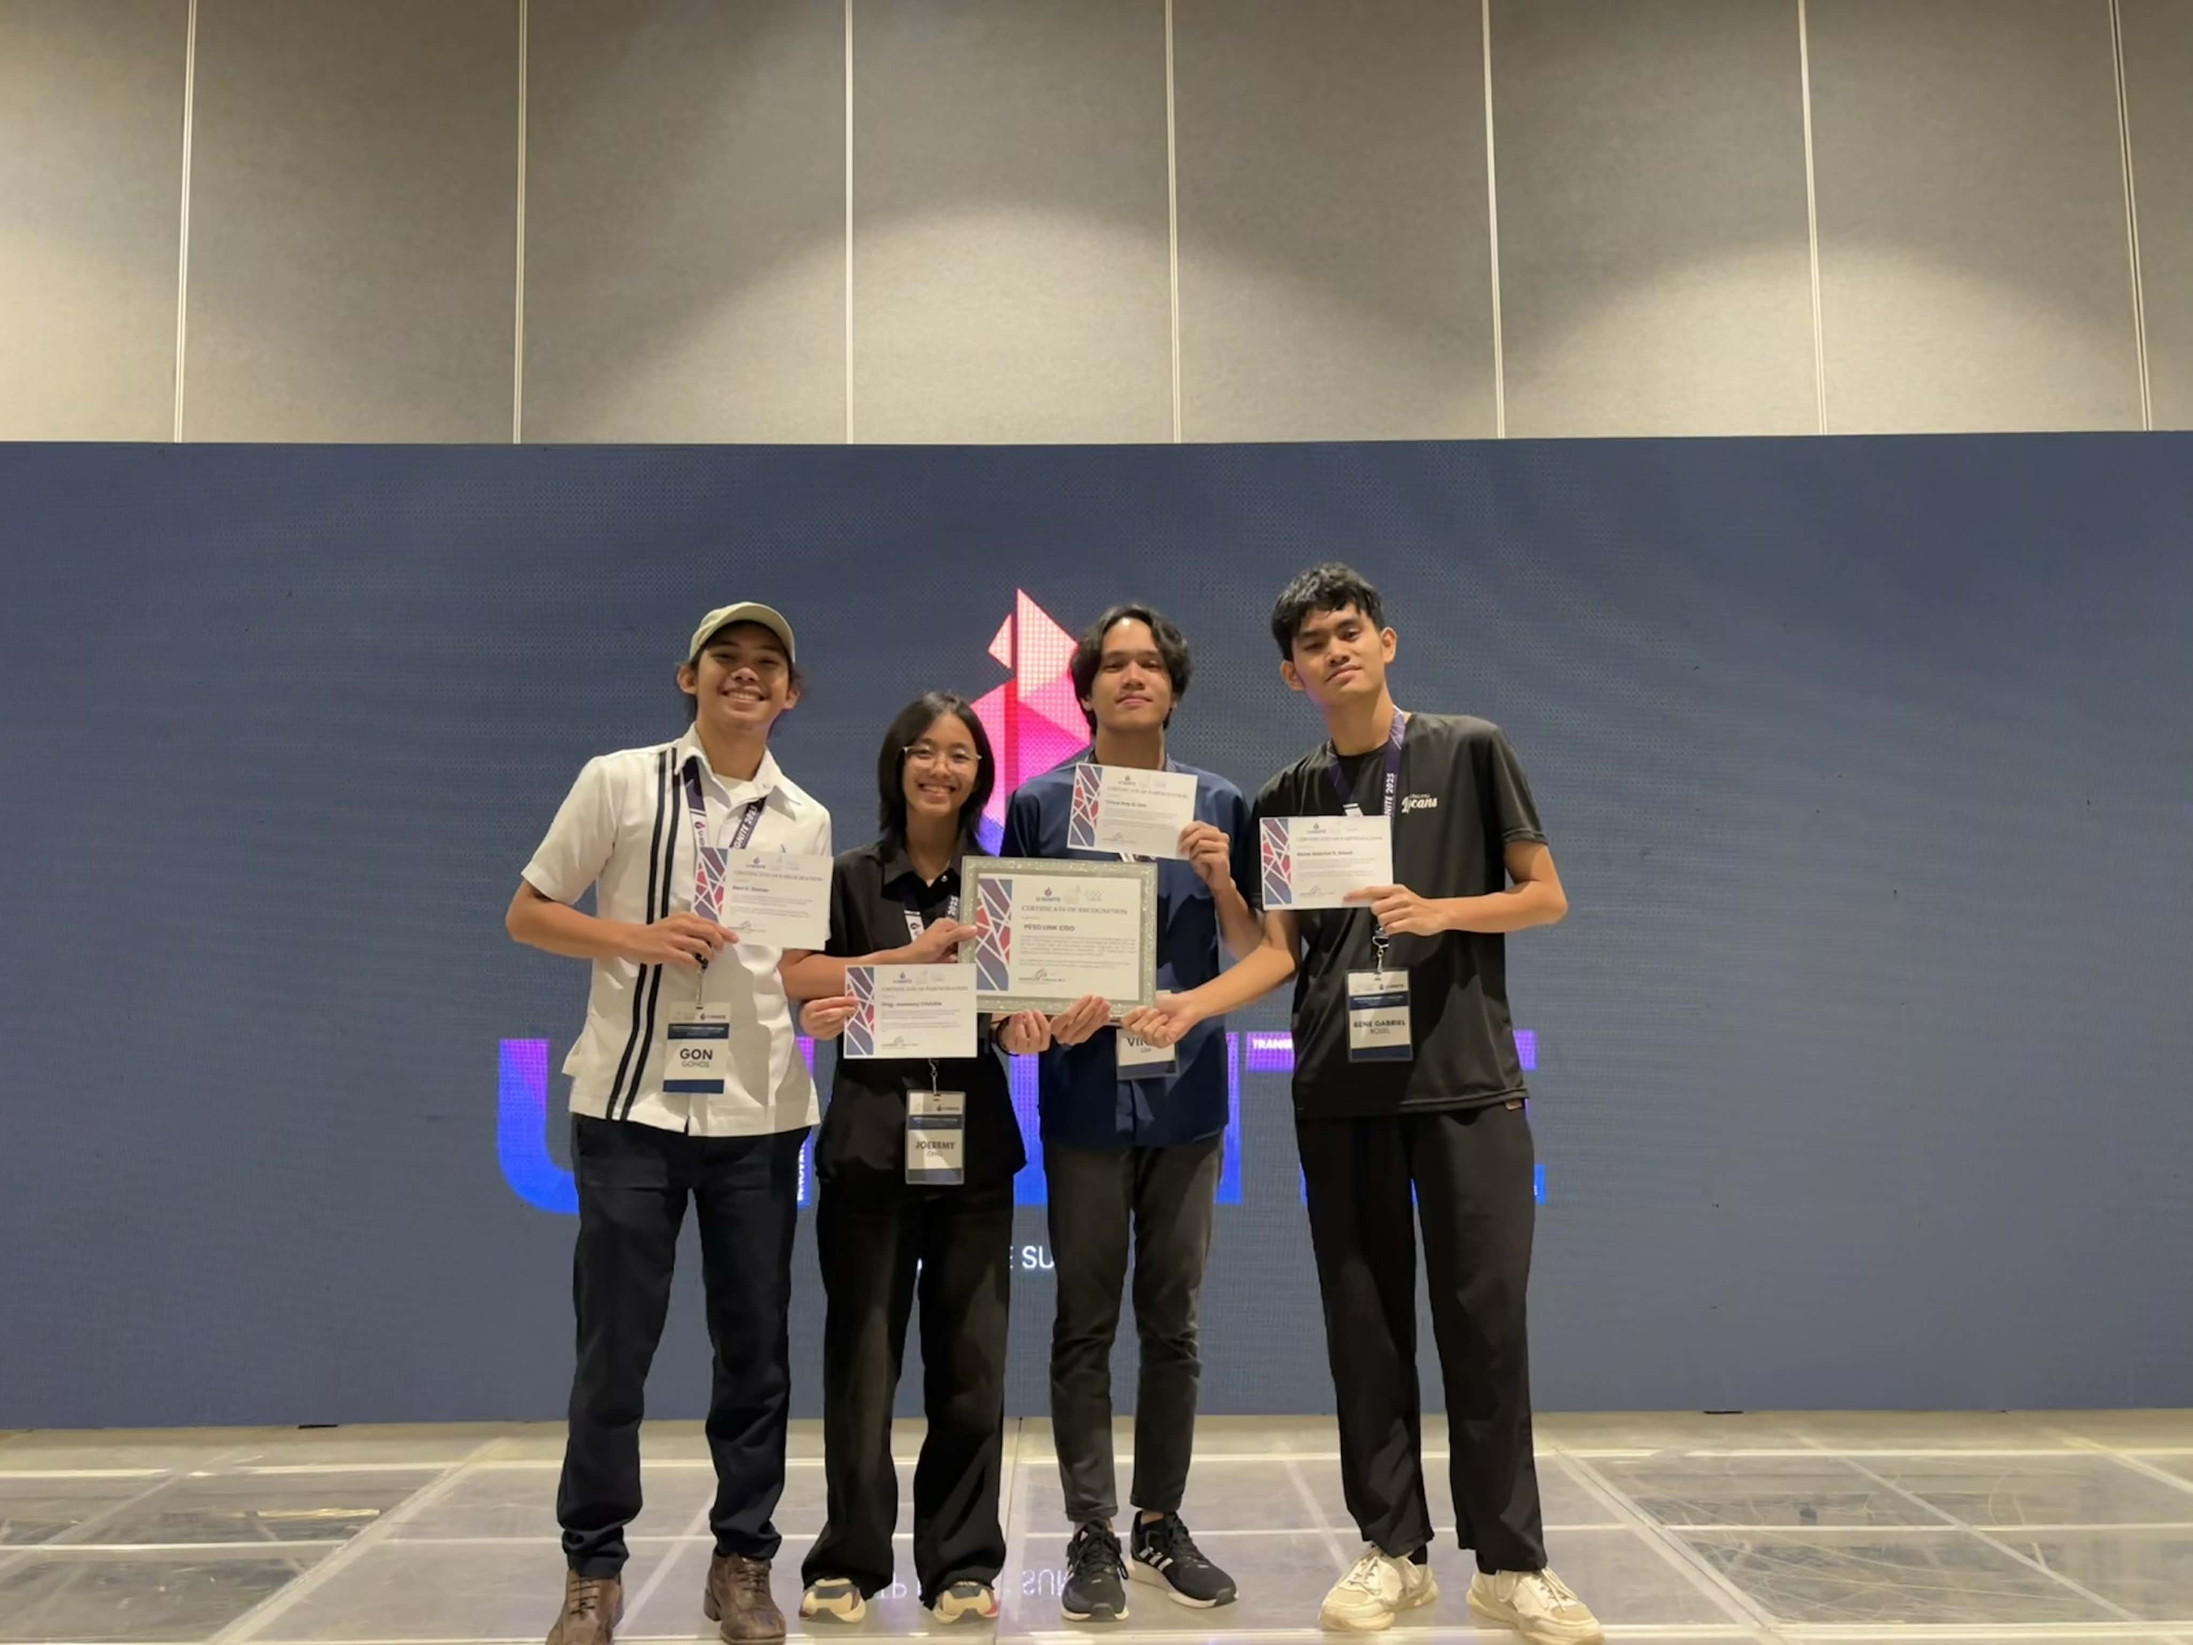
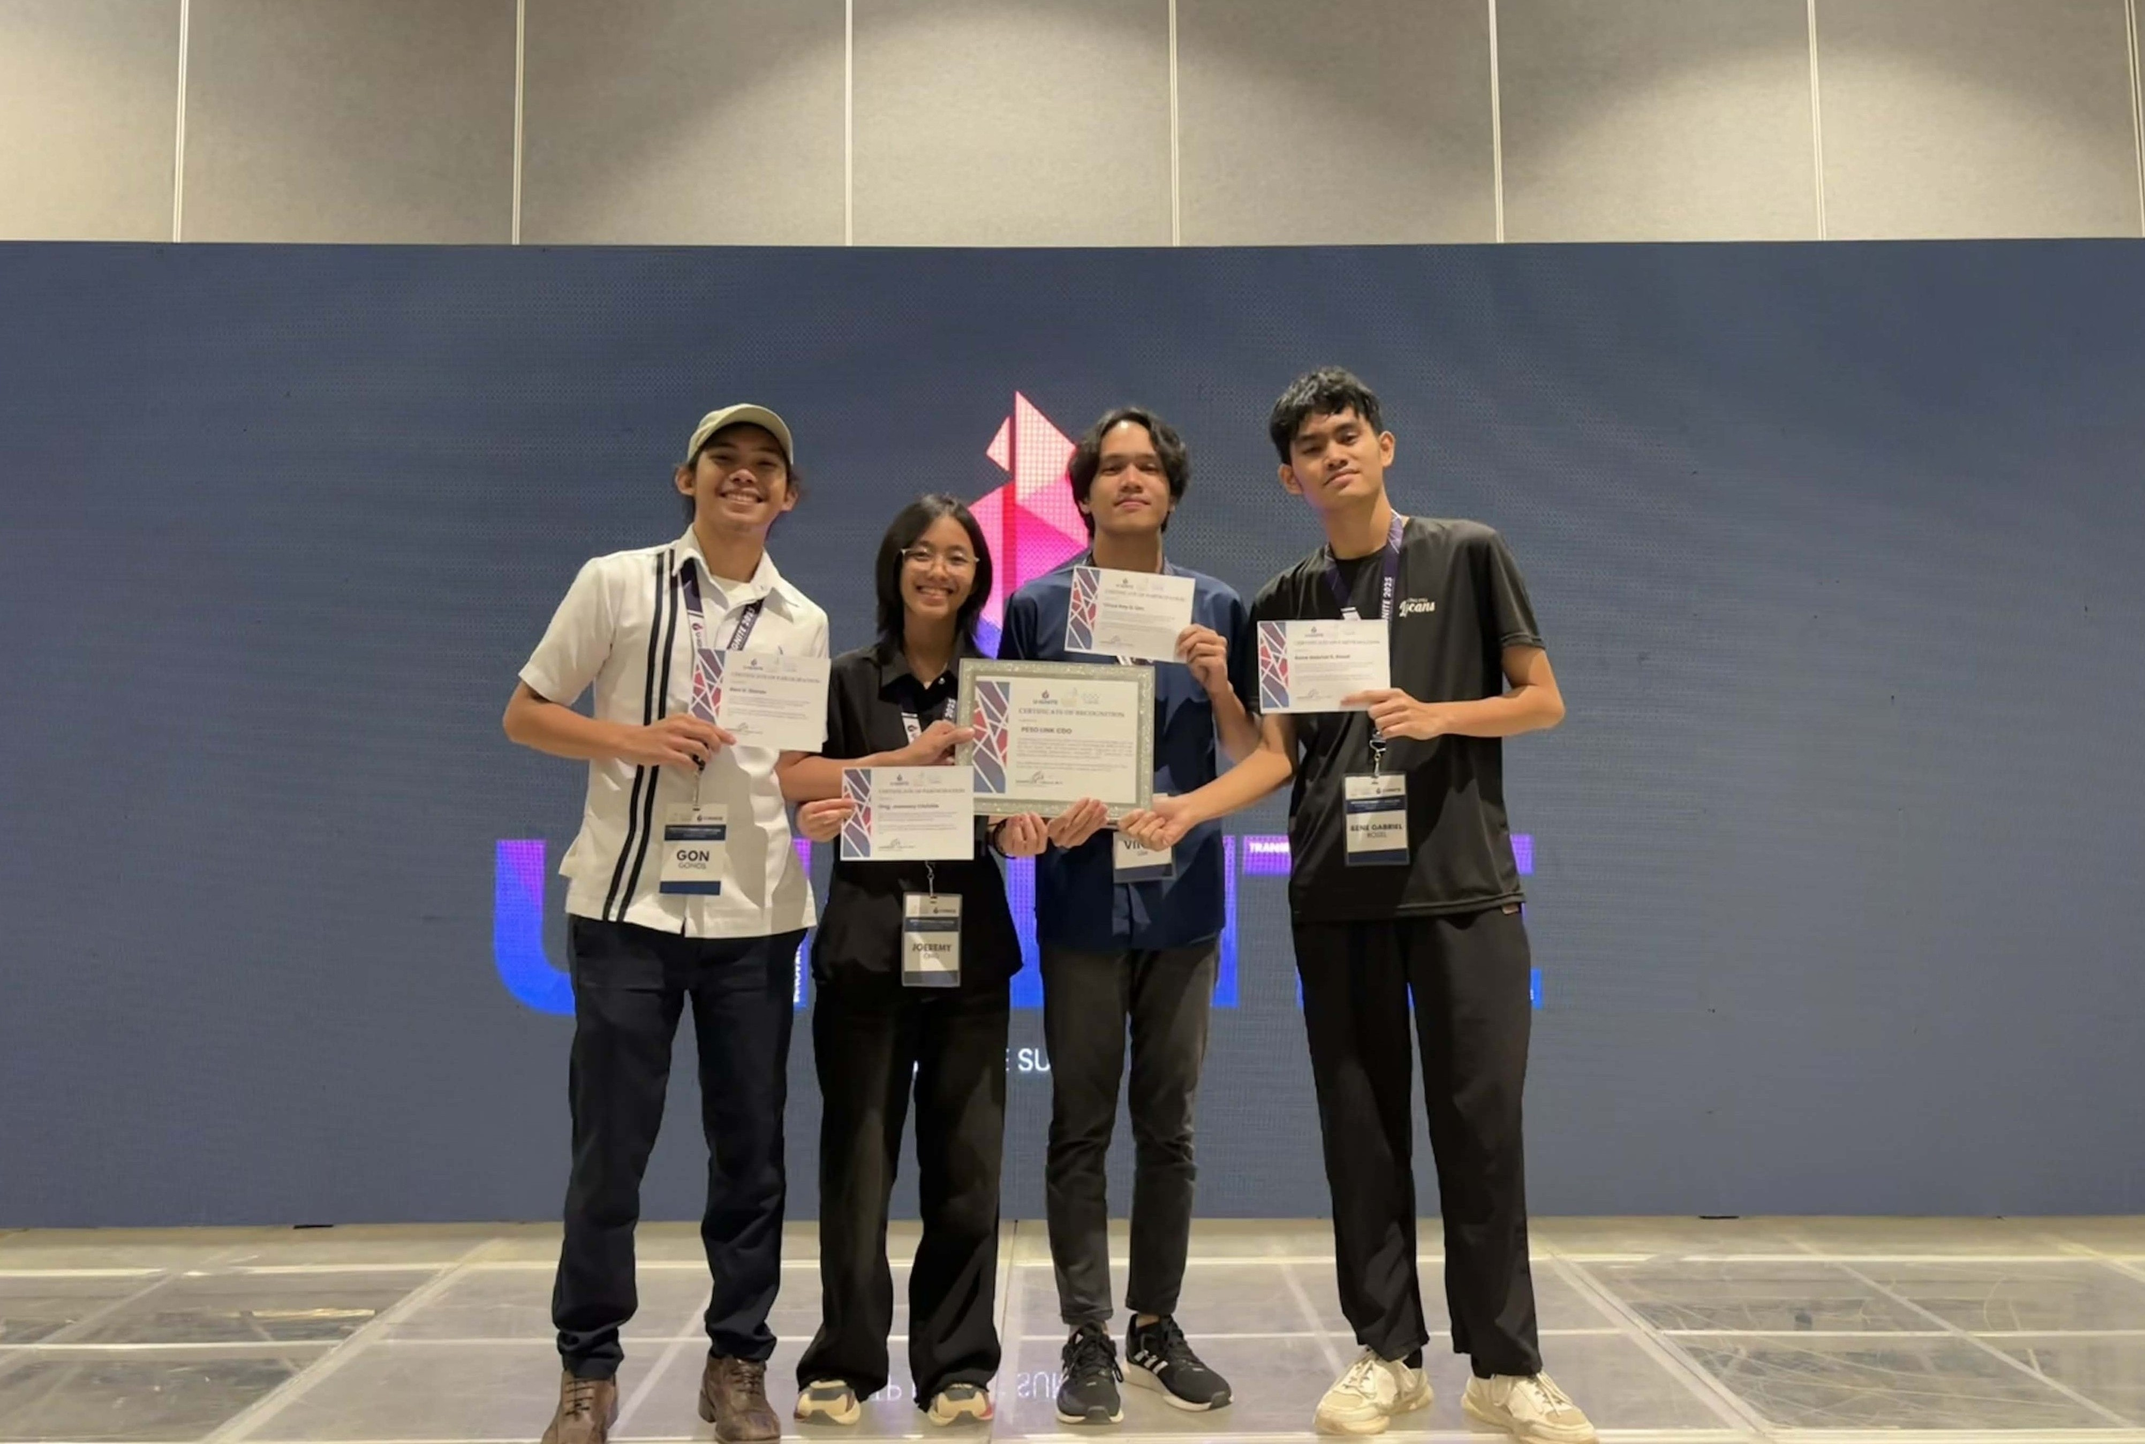
fixes

diff --git a/styles.css b/styles.css
@@ -1154,9 +1154,8 @@ textarea:focus-visible {
 /* --- SUBTLE PREMIUM ABOUT SECTION --- */
 /* 1. The Container: Shift balance to the left (1.6fr) to widen the image area */
 #about .about-container {
-  display: grid;
-  grid-template-columns: 1.6fr 1fr;
-  /* */
+  display: flex;
+  flex-direction: column;
   gap: 40px;
   align-items: start;
 }
@@ -2540,7 +2539,7 @@ body:not(.transitioning) {
 
 .subtle-bento-grid {
   display: grid;
-  grid-template-columns: repeat(2, 1fr);
+  grid-template-columns: 2fr 1fr;
   gap: 20px;
 }
 
@@ -2563,9 +2562,7 @@ body:not(.transitioning) {
     inset 0 0 15px rgba(255, 200, 87, 0.05);
 }
 
-.achievement-highlight {
-  grid-column: span 2;
-}
+
 
 /* Mini Gallery with Desaturated Effect */
 .mini-gallery {
@@ -2576,7 +2573,7 @@ body:not(.transitioning) {
 
 .gallery-frame {
   flex: 1;
-  height: 100px;
+  height: 160px;
   border-radius: 12px;
   overflow: hidden;
   border: 1px solid var(--border-color);
@@ -2628,7 +2625,7 @@ body:not(.transitioning) {
 
 .subtle-bento-grid {
   display: grid !important;
-  grid-template-columns: 1fr 1fr !important;
+  grid-template-columns: 2fr 1fr !important;
   gap: 20px !important;
 }
 
@@ -2640,7 +2637,7 @@ body:not(.transitioning) {
 }
 
 .achievement-highlight {
-  grid-column: span 2 !important;
+  grid-column: span 1 !important;
 }
 
 /* Mobile Fix */
@@ -2715,8 +2712,8 @@ body:not(.transitioning) {
 /* 1. Expand the Left Column to accommodate the wider frame */
 .about-top-wrapper {
   display: grid;
-  /* Shifted more weight to the left to let the wider image breathe */
-  grid-template-columns: 1.5fr 1fr;
+  /* Shifted more weight to the right to let the text breathe */
+  grid-template-columns: 0.9fr 1.3fr;
   gap: 60px;
   margin-bottom: 60px;
   align-items: center;
@@ -2785,11 +2782,48 @@ body:not(.transitioning) {
     grid-template-columns: 1fr;
   }
 
+  .about-visual-grid {
+    width: 100%;
+    display: flex;
+    justify-content: center;
+  }
+
   .about-image.dominant {
     max-width: 100%;
     height: 350px;
-    /* More natural width-to-height for mobile */
+    margin: 0 auto;
+    /* Explicitly center */
+    left: 0;
+    /* Reset any relative positioning offsets */
   }
+}
+
+/* Cybersecurity Badge */
+.cyber-badge {
+  margin-top: 20px;
+  width: 100%;
+  height: 150px;
+  /* Increased height to match visual weight of neighbor */
+  display: flex;
+  align-items: center;
+  justify-content: center;
+  overflow: hidden;
+  border-radius: 12px;
+  border: 1px solid var(--border-color);
+  background: rgba(0, 0, 0, 0.2);
+}
+
+.cyber-badge img {
+  width: 100%;
+  height: 100%;
+  object-fit: cover;
+  /* Fills the container nicely */
+  transition: transform 0.5s ease;
+}
+
+.hobby-card:hover .cyber-badge img {
+  transform: scale(1.05);
+  /* Subtle zoom on hover */
 }
 
 /* --- Premium Animations --- */
@@ -2876,11 +2910,7 @@ body:not(.transitioning) {
 }
 
 /* This allows the column to flow correctly */
-.subtle-bento-grid {
-  display: flex !important;
-  flex-direction: column !important;
-  gap: 20px !important;
-}
+
 
 /* Make the icons glow when the card is hovered */
 .hobby-card:hover .hobby-header i {

diff --git a/index.html b/index.html
@@ -135,9 +135,8 @@
                 </div>
 
                 <div class="skill-group">
-                  <!-- <span class="skill-tag"><i class="fas fa-mobile-alt"></i> Flutter Dev</span> -->
                   <span class="skill-tag"><i class="fab fa-react"></i> React & React Native</span>
-                  <!-- test-->
+                  <span class="skill-tag"><i class="fas fa-mobile-alt"></i> Flutter</span>
                   <span class="skill-tag"><i class="fas fa-code"></i> HTML/CSS/JS</span>
                 </div>
 
@@ -172,24 +171,15 @@
               </div>
             </div>
 
-            <div class="hobby-row">
-              <div class="bento-card hobby-card">
-                <div class="card-inner">
-                  <div class="hobby-header">
-                    <i class="fas fa-gamepad"></i>
-                    <h5 class="highlight-yellow">Gaming</h5>
-                  </div>
-                  <p>Honing strategic thinking through competitive play in Valorant.</p>
+            <div class="bento-card hobby-card">
+              <div class="card-inner">
+                <div class="hobby-header">
+                  <i class="fas fa-shield-halved"></i>
+                  <h5 class="highlight-yellow">Cybersecurity</h5>
                 </div>
-              </div>
-
-              <div class="bento-card hobby-card">
-                <div class="card-inner">
-                  <div class="hobby-header">
-                    <i class="fas fa-shield-halved"></i>
-                    <h5 class="highlight-yellow">Cybersecurity</h5>
-                  </div>
-                  <p>Practicing defense techniques on TryHackMe to build secure environments.</p>
+                <p>Practicing defense techniques on TryHackMe to build secure environments.</p>
+                <div class="cyber-badge">
+                  <img src="images/tryhackme.png" alt="TryHackMe Badge" loading="lazy">
                 </div>
               </div>
             </div>
